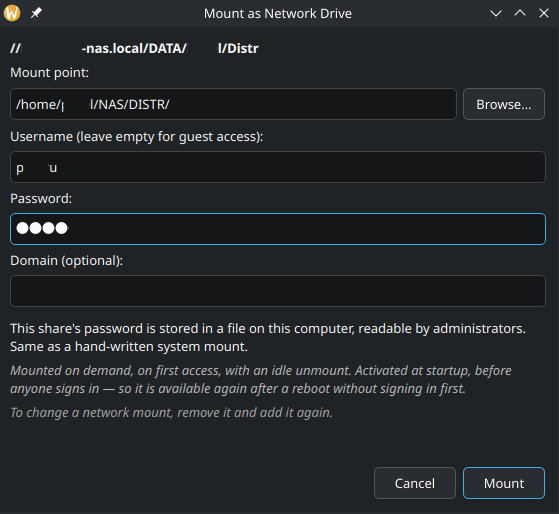
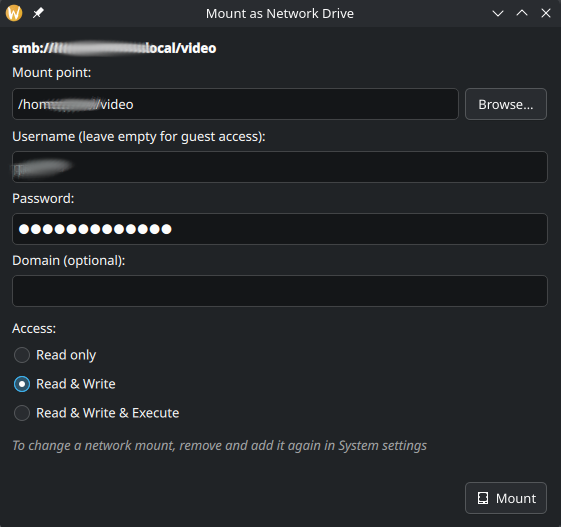
Readme file clean-up, install script clean-up, screenshots update

diff --git a/README.md b/README.md
@@ -1,9 +1,12 @@
-# KDE NAS Mount - easy network mounts without CLI hustle
+# KDE NAS Mount - easy network mounts w/out CLI hustle for KDE
 
-Make your SMB network shares on your NAS or any other remote host easly connected to your Linux host with KDE Plasma desktop.
+Make your SMB network shares easly connected to your KDE Plasma desktop.
 
-Requirements:
- - Kubuntu 26.04+ or Fedora 44+, **or**
+Current builds suppor:
+ - deb - Kubuntu 26.04+
+ - rpm - Fedora 44+
+**or**
+Custom build:
  - KDE Plasma 6.0+ and Linux kernel 6.8+ on any other distro
  
 ## Downloads and Install
@@ -32,269 +35,49 @@ sudo apt install ./nasmount-amd64-<version>.deb                   # Kubuntu
 sudo dnf install ./nasmount-fedora44-x86_64-<version>.rpm         # Fedora
 ```
 
-`apt install` is preferred over `dpkg -i` for the `.deb`: it resolves the
-package's dependencies, which `dpkg -i` leaves for you to install by hand.
-
-### Upgrading
-
-On Kubuntu, install the newer package over the installed one with the same
-command:
-
-```bash
-sudo apt install ./nasmount-amd64-<newer>.deb
-```
-
-Your shares, their credentials, and your configuration are preserved — an
-upgrade never touches `/etc/nasmount`, the generated units in
-`/etc/systemd/system`, or `~/.config/nasmountrc`. Afterwards, restart System
-Settings and Dolphin so they pick up the new KCM and service menu; nothing else
-is needed, and no reboot is required.
-
-On Fedora the same applies, with the same command:
-
-```bash
-sudo dnf install ./nasmount-fedora44-x86_64-<newer>.rpm
-```
-
-**Downgrades differ between the two, and not by choice.** The `.deb` refuses
-them: run `nasmount-uninstall` first, then install the older package. The
-`.rpm` cannot refuse — DNF downgrades whenever it is given an exact version,
-which a local `.rpm` file is — so on Fedora an accidental `dnf install` of an
-older package silently downgrades. Nothing protects you there; check the
-version before you install it.
-
-![Mount as Network drive in dolphin](docs/img/img3.png)
+![Mount as Network drive in Dolphin](docs/img/img3.png)
 
 ![Mount as Network Drive dialog](docs/img/img1.png)
 
 ![Network Mounts settings page](docs/img/img2.png)
 
-
-It mounts CIFS/SMB shares as real kernel mounts at **any path you choose**, using
-generated static systemd `.mount`/`.automount` pairs. A share mounts **on demand**
-— the first time a process opens its path — and the idle timeout releases it
-while the trigger stays armed. A share's credential is a root-owned file that
-survives reboot, and the trigger is armed at boot before anyone logs in — so a
-saved share is simply there again after a restart, with nothing to re-enter and
-nothing to arm by hand.
-
-Two ways in, one backend — and now literally one dialog: **System Settings →
-Network Mounts** to list, add and remove shares with live state for each, or
-the **Dolphin service menu** (right-click an `smb://` share → **Mount as
-Network Drive…**). Both render the same `ShareForm.qml`.
-
-The settings page lists each share as its mount point over its `smb://`
-address, with its access mode and live state beside it, and three buttons:
-**Open** shows the mount point in the file manager (which mounts it), **Details**
-shows the saved share in the same form that created it, read-only, and
-**Remove** asks before removing anything. The **Add** form takes a share as
-`smb://host/share` — or `//host/share` — and a user written into the address
-(`smb://alice@host/share`) fills in the username. On disk nothing changes: the
-units still use the `//host/share` form `mount.cifs` requires, so
-`systemctl status` shows that spelling.
-
-
 ## Source-build requirements
 
 A **Plasma 6+ / KF6+** desktop and **Linux 6.8+** (for `STATX_MNT_ID_UNIQUE`).
 
-| Need | Debian/Ubuntu package |
-|------|-----------------------|
-| CMake ≥ 3.20, C++20 compiler | `cmake`, `g++` |
-| Qt 6 Core / Widgets / Concurrent / Quick / QuickControls2 / DBus | `qt6-base-dev`, `qt6-declarative-dev` |
-| Extra CMake Modules | `extra-cmake-modules` |
-| KF6 Auth / I18n / WidgetsAddons / Config / CoreAddons / KCMUtils | `libkf6auth-dev`, `libkf6i18n-dev`, `libkf6widgetsaddons-dev`, `libkf6config-dev`, `libkf6coreaddons-dev`, `kf6-kcmutils-dev` |
-| KF6 KIO, for the credential lookup described below | `libkf6kio-dev` |
-| QtQuick / Controls / Dialogs / Layouts QML modules, to run the tests | `qml6-module-qtquick`, `qml6-module-qtquick-controls`, `qml6-module-qtquick-dialogs`, `qml6-module-qtquick-layouts` |
-| `mount.cifs` at runtime | `cifs-utils` |
-| Kirigami QML module at runtime, for the settings page | `qml6-module-org-kde-kirigami` (Fedora: `kf6-kirigami`) |
-| KDE's password service at runtime, for credential autofill | `kio6` (Fedora: `kf6-kio-core`) |
+On Kubuntu 26.04, install the packages needed to build, test, and run it:
 
+```bash
+sudo apt update
+sudo apt install \
+  appstream cifs-utils cmake diffutils extra-cmake-modules findutils g++ git make \
+  libkf6auth-dev libkf6config-dev libkf6coreaddons-dev libkf6i18n-dev \
+  libkf6kcmutils-dev libkf6kio-dev libkf6widgetsaddons-dev polkitd \
+  qml6-module-org-kde-kcmutils qml6-module-org-kde-kirigami \
+  qml6-module-qtquick qml6-module-qtquick-controls qml6-module-qtquick-dialogs \
+  qml6-module-qtquick-layouts qt6-base-dev qt6-declarative-dev systemd
+```
+
+On Fedora KDE 44, use:
+
+```bash
+sudo dnf install \
+  appstream cifs-utils cmake diffutils extra-cmake-modules findutils gcc-c++ git make \
+  kf6-kauth-devel kf6-kcmutils kf6-kcmutils-devel kf6-kirigami \
+  kf6-kconfig-devel kf6-kcoreaddons-devel kf6-ki18n-devel kf6-kio-devel \
+  kf6-kwidgetsaddons-devel polkit qt6-qtbase-devel qt6-qtdeclarative \
+  qt6-qtdeclarative-devel systemd
+```
 
 ## Build and install from source
 
 ```bash
-make install           # or: ./install.sh — same thing
+make install
 ```
-
-**Do not run this with sudo.** The build runs as you; only `cmake --install`
-elevates, and the script refuses to start as root.
-
-The prefix is **`/usr`**, not `/usr/local`: D-Bus only scans
-`/usr/share/dbus-1/system-services` and polkit only
-`/usr/share/polkit-1/actions`, so a `/usr/local` install would build fine and
-then silently fail to authenticate.
-
-This is a **clean install only** — there is no migration from an older version.
-If one is installed, run `./uninstall.sh` first.
-
-`make` builds into `build/` without installing; `make clean` removes it. The
-shell scripts exist because they gate on the tests passing, refresh Dolphin's
-and System Settings' caches, and enable the boot coordinator.
-
-## Versioning and release artifacts
-
-[`VERSION`](VERSION) is the single source of truth for the release version and
-uses `MAJOR.MINOR.PATCH` format. CMake reads it as `PROJECT_VERSION`; the
-command-line programs' `--version` output and the KCM plugin metadata are
-generated from that value. A release bump therefore changes only `VERSION`.
-
-Release tags use the matching `v<version>` form (for example, version `0.3.0`
-uses tag `v0.3.0`). The release workflow rejects a tag whose value does not
-match `VERSION`, rebuilds both native packages from that tag, smoke-installs
-and removes them on their target distributions, verifies the two-package set,
-generates checksums and a JSON release manifest, attests both packages, and
-creates and publishes the GitHub Release.
-
-For a release, change `VERSION`, commit it, push, and wait for regular
-CI to pass. Then create the matching tag without entering the version again:
-
+or
 ```bash
-./packaging/tag-release.sh          # or add --sign when Git tag signing is configured
+./install.sh        
 ```
-
-The helper requires a clean `master` whose current commit is already the
-`origin/master` tip, validates `VERSION` and `packaging/RELEASE`, and refuses
-an existing local or remote tag. It creates an annotated tag locally and
-prints the exact `git push origin refs/tags/v<version>` command; it never pushes
-on its own. Review the tag, run the printed command, and the tag push triggers
-the release workflow.
-
-The regular CI workflow has these required jobs:
-
-1. `validate_packaging` — rootless source, shell, workflow, and package-metadata gates;
-2. `build_deb` — unprivileged Ubuntu 26.04 build, all CTests, Lintian, and payload evidence;
-3. `build_rpm` — unprivileged Fedora 44 build, all CTests, rpmlint, and payload evidence;
-4. `smoke_packages` — clean-container install, payload inspection, and removal of seeded managed state for both targets;
-5. `upgrade_deb` / `upgrade_rpm` — real in-place upgrade over seeded shares, then removal, for each family;
-6. `verify_artifact_set` — exact payload/layout checks plus checksums and release metadata;
-7. `ci_success` — one branch-protection result requiring every prior job.
-
-Package creation deliberately uses `dpkg-buildpackage`/debhelper and
-`rpmbuild`/Fedora RPM macros. The repository `make install` target is only for
-interactive source installation and is never invoked to assemble a package.
-
-## Credential autofill
-
-When you open **Mount as Network Drive** on a share you are already signed in
-to in Dolphin, the username and password fields arrive filled in. The
-credential comes from KDE's own password service — the same one Dolphin used —
-and never from reading a wallet file or storing anything new.
-
-It is a suggestion, not a decision. Every field stays editable and masked, and
-nothing is submitted for you: mounting still needs the same administrator
-authentication as a credential you typed. As soon as you type in any of the
-three credential fields, the whole suggestion is discarded rather than mixed
-with what you entered, and clearing the username still means guest access.
-
-Two things are worth knowing:
-
-- **KDE may ask you to unlock your wallet** to answer. That prompt is KDE's,
-  not this tool's. Declining it, having no wallet, or having no saved
-  credential all end the same way: the form stays exactly as it was and you
-  type the credential yourself.
-- **It cannot prove which account a Dolphin tab is using.** KDE answers from
-  what it has stored for the server and share, so on a server where you use
-  more than one account, check the username before you mount. If the `smb://`
-  URL names a user, a credential for any other account is refused rather than
-  filled in.
-
-Autofill runs only in the Dolphin service-menu dialog, where the share is
-known from the URL. The System Settings **Add** form never asks the password
-service: the only thing it takes from anywhere but your typing is a username
-written into the `smb://` address itself.
-
-If the fields arrive empty and you expected otherwise, run the dialog from a
-terminal to see why — a lookup that finds nothing says nothing by design:
-
-```bash
-NASMOUNT_DEBUG_LOOKUP=1 nasmount-dialog smb://host/share
-```
-
-It prints the reason, never any part of the credential.
-
-Adding or removing a share requires **administrator authentication**
-(`auth_admin`): it writes a persistent root-owned credential under `/etc` and a
-unit that mounts before anyone signs in, which is the same authority as editing
-`/etc` by hand. That prompt appears once per add or remove — never at boot, and
-never while using a mounted share. Listing state is read-only and unauthenticated.
-
-## Tests
-
-```bash
-make test              # or: ctest --test-dir build --output-on-failure
-```
-
-Eighteen test binaries plus shell, metadata, and AppStream gates; `install.sh`
-runs every one and refuses to install if any fail. Both native-package builds
-run the complete 24-test CTest suite. Privileged accept paths and real reboot /
-no-login behaviour must still be validated in disposable target VMs.
-
-## Uninstall
-
-For a native package, run this as the desktop user who owns the shares:
-
-```bash
-nasmount-uninstall
-```
-
-An authenticated full purge: every managed share, its credentials and runtime
-records, `~/.config/nasmountrc`, then the software itself. Mount points are
-retained; tampered state or an unsafe live mount is refused, leaving everything
-installed for retry. Add `--yes` to skip the confirmation prompt.
-
-On Kubuntu it *purges* rather than removes, so `dpkg -l` stops listing nasmount
-entirely. It reports what actually happened rather than assuming: if the
-authenticated cleanup cannot be confirmed, it says so and leaves the package
-installed, because a lost authorization reply cannot be distinguished from a
-purge that already ran.
-
-The command remains installed after the download is deleted. It authenticates
-and purges managed state while the KAuth helper and polkit policy still exist,
-then invokes `apt-get purge` or `dnf remove --no-autoremove` through `sudo`.
-
-### Removing with apt or dnf directly
-
-The two families behave differently here, deliberately.
-
-**Kubuntu.** `apt remove` and `apt purge` both work with shares present, and
-the package tears them down itself:
-
-| Command | Effect |
-|---|---|
-| `sudo apt remove nasmount` | Disarms every managed share — stops its automount trigger and unmounts it — then removes the software. Unit files, credentials in `/etc/nasmount`, and runtime records are **kept**. |
-| `sudo apt purge nasmount` | The above, and then deletes the unit files, `/etc/nasmount`, and `/run/nasmount*`. |
-
-Two things this does **not** do, and cannot: it runs as root with no idea which
-account owns a share, so it never removes anyone's `~/.config/nasmountrc`, and
-it asks for no authentication. `nasmount-uninstall` remains the complete,
-owner-scoped path — prefer it. If a share has open files, the unmount fails and
-the removal prints a warning and continues, leaving that mount live until you
-unmount it or reboot.
-
-**Fedora.** RPM has no remove/purge split, so a single `dnf remove` does
-everything the two apt commands do together: it disarms every managed share and
-deletes its unit files, `/etc/nasmount`, and `/run/nasmount*`.
-
-Always pass `--no-autoremove`:
-
-```bash
-sudo dnf remove --no-autoremove nasmount
-```
-
-Without it, DNF may continue removing dependencies it now considers unused,
-which can leave other software on the system without Qt. `nasmount-uninstall`
-passes it for you.
-
-For an installation made from source, use:
-
-```bash
-./uninstall.sh
-```
-
-It reads `build/install_manifest.txt` and refuses to run without it, so
-**source uninstall works only from the build tree that installed** — after
-`make clean`, or in a fresh checkout, re-run `./install.sh` first.
 
 ## Author and licence
 

diff --git a/AGENTS.md b/AGENTS.md
@@ -502,16 +502,13 @@ they share with the KCM live. Tests that read the source
 tree (`goldenunits_test`, `shareform_qml_test`) get the path as a compile
 definition rather than a staged copy, which could go stale.
 
-Adding a C++ test means editing **three** places:
+Adding a C++ test means editing two places:
 
 1. `tests/<name>_test.cpp`;
-2. `CMakeLists.txt` — `add_executable` + `target_link_libraries` + `add_test`;
-3. [`install.sh`](install.sh#L45) — the explicit test-binary list, which gates
-   installation. It is a hand-maintained list; a new test not added there is
-   silently skipped at install time.
+2. `CMakeLists.txt` — `add_executable` + `target_link_libraries` + `add_test`.
 
-A new shell gate likewise needs its `add_test` *and* its own `bash …` line in
-`install.sh`.
+A new shell gate needs only its `add_test`. `install.sh` runs no tests — it
+only builds and installs — so run `make test` before `make install`.
 
 The same hand-maintained-list trap exists in CI. `packaging_metadata_test.sh`
 compares both workflows' job names to an **exact set**, and `ci_success`
